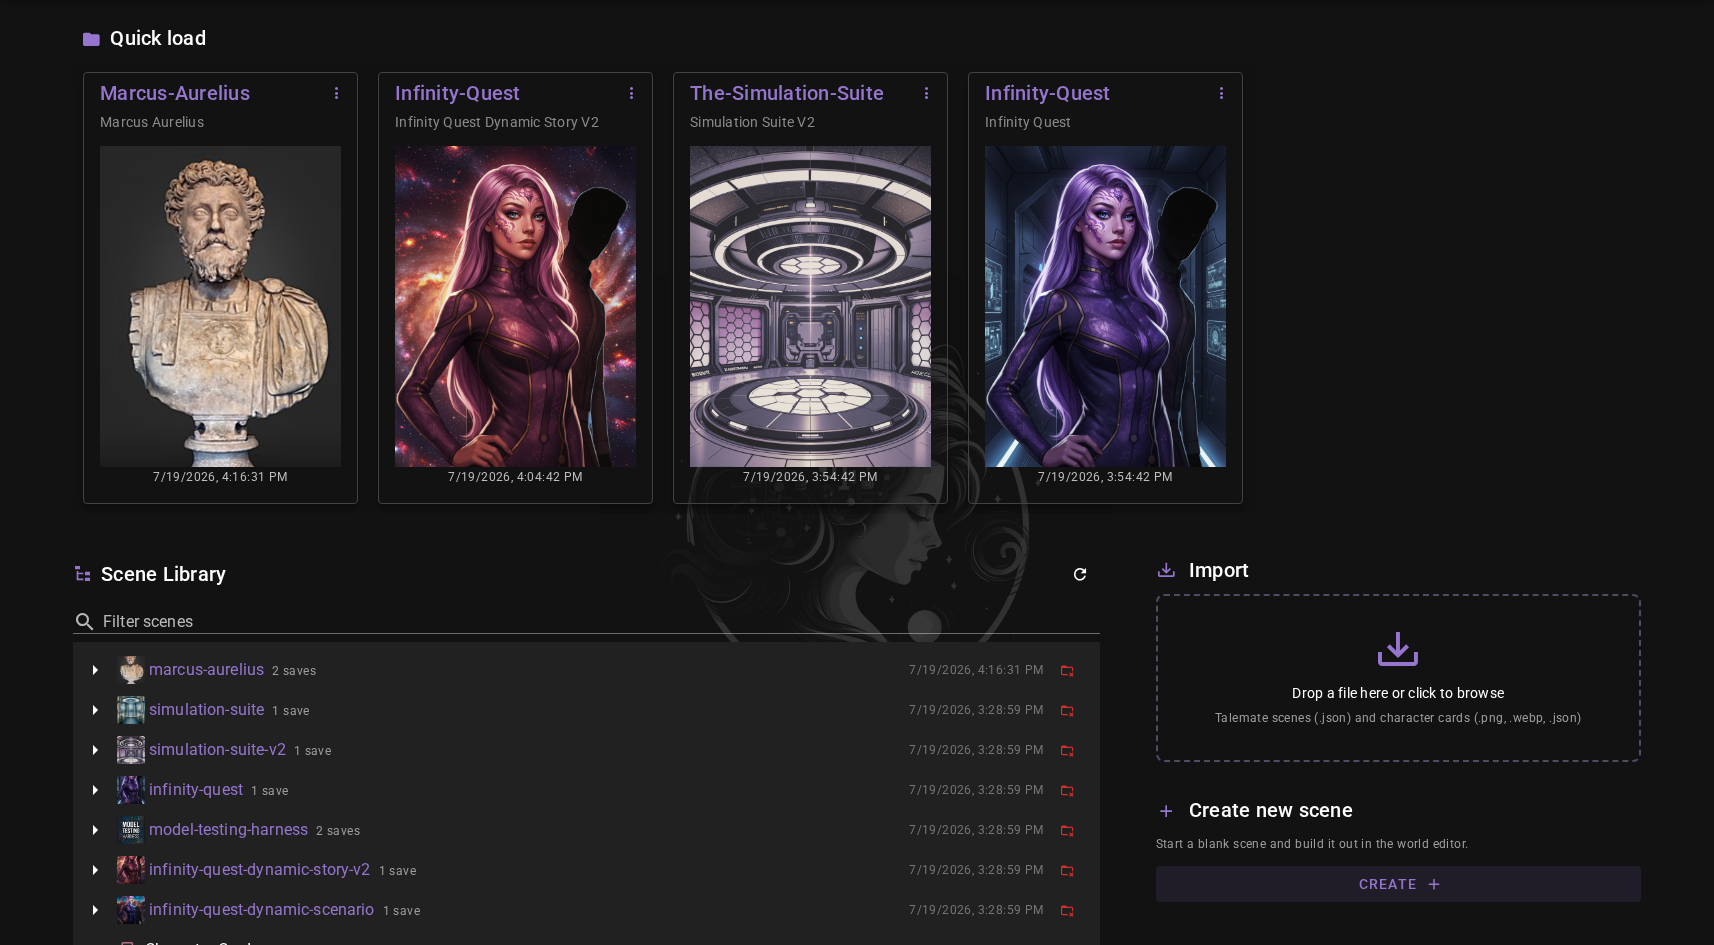
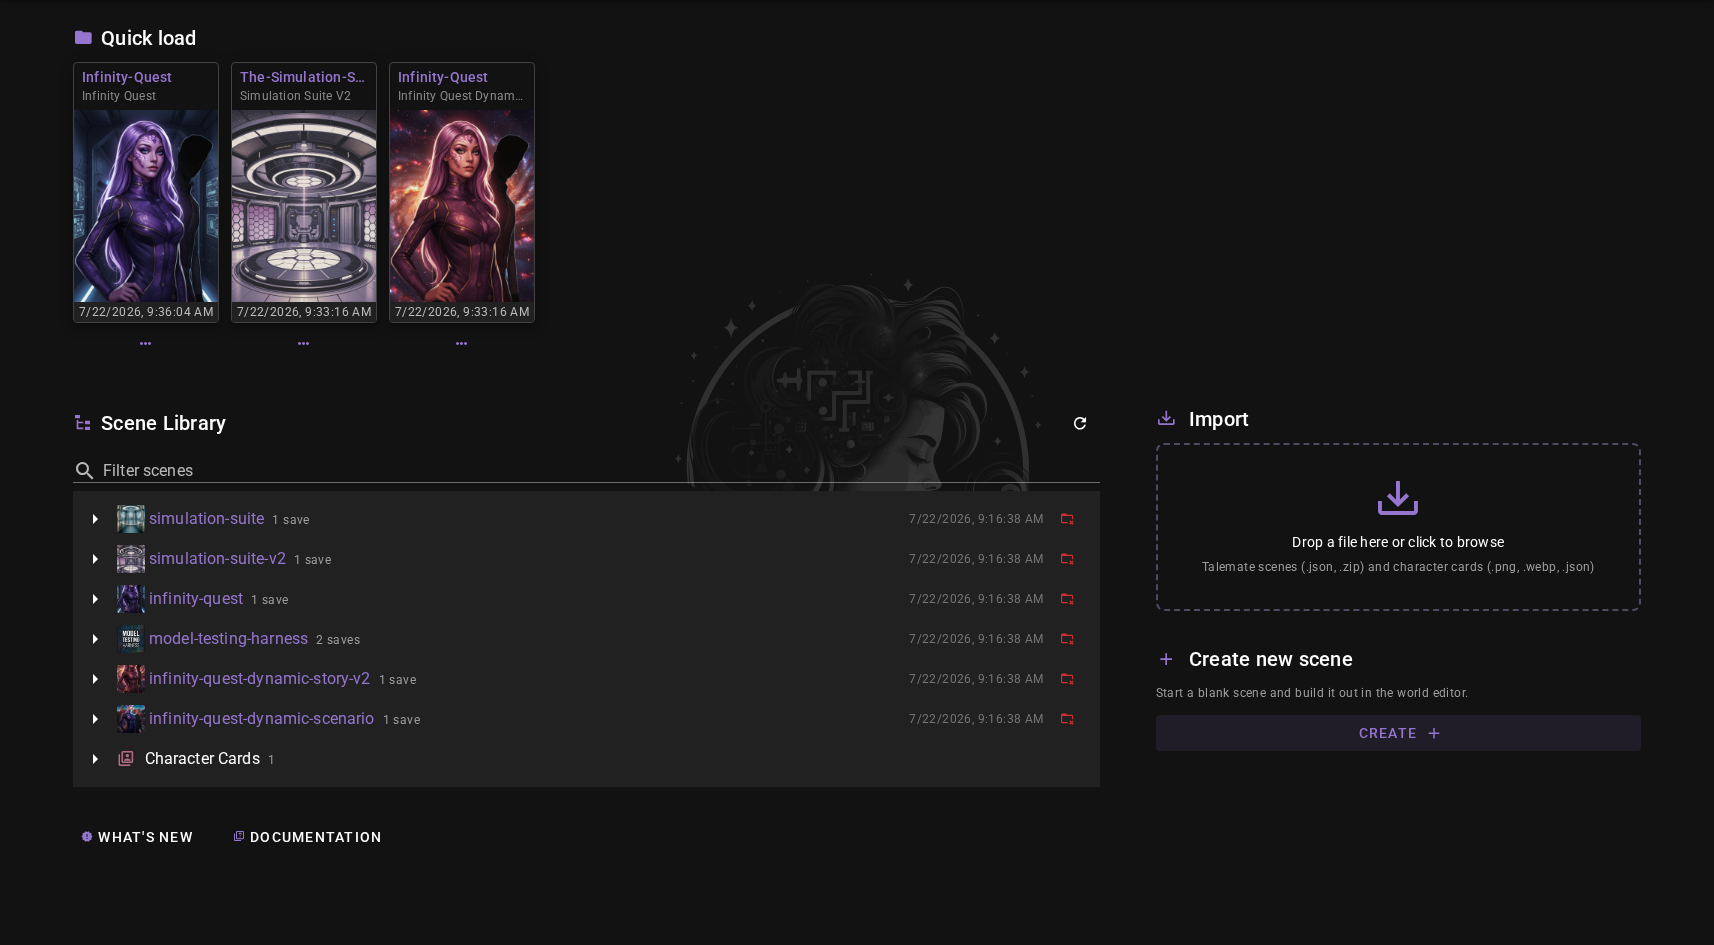
Scene library and quick load tweaks (#136) (#137)
* ui: move quick-load card menu below the card and add save-file context menu to scene library (#136)

* ui: horizontal dots for quick-load card menu, tighter card title spacing (#136)

* refactor: extract shared SceneSaveContextMenu, add connected guard to library menu (#136 review)

* ui: align Quick load section header with Scene Library header (#136)

* docs: sync scene-browser and restoring-scenes docs with save-row context menu, refresh screenshots (#136 review)

diff --git a/talemate_frontend/src/components/IntroRecentScenes.vue b/talemate_frontend/src/components/IntroRecentScenes.vue
@@ -1,7 +1,7 @@
 <template>
     <v-card variant="text" v-if="hasRecentScenes()">
-        <v-card-title class="ml-2">
-            <v-icon size="x-small" class="mr-1" color="primary">mdi-folder</v-icon>
+        <v-card-title class="d-flex align-center">
+            <v-icon size="x-small" class="mr-2" color="primary">mdi-folder</v-icon>
             Quick load
         </v-card-title>
         <!-- 
@@ -21,33 +21,6 @@
                     <v-card :disabled="!sceneLoadingAvailable || sceneIsLoading" density="compact" elevation="7"  @click="loadScene(scene)" color="grey-darken-3" variant="outlined">
                         <v-card-title class="text-primary">
                             {{ filenameToTitle(scene.filename) }}
-
-                            <v-menu>
-                                <template v-slot:activator="{ props }">
-                                    <v-btn 
-                                    class="btn-menu"
-                                    v-bind="props"
-                                    color="primary" 
-                                    icon 
-                                    variant="text"
-                                    size="small"><v-icon>mdi-dots-vertical</v-icon></v-btn>
-                                </template>
-                                <v-list density="compact">
-                                    <v-list-item prepend-icon="mdi-history" @click="openTimeline(scene)">
-                                        <v-list-item-title>Timeline</v-list-item-title>
-                                    </v-list-item>
-                                    <v-divider></v-divider>
-                                    <v-list-subheader>Remove</v-list-subheader>
-                                    <v-list-item prepend-icon="mdi-table-large-remove" @click="removeFromRecentScenes(scene)">
-                                        <v-list-item-title>Remove from Quick Load</v-list-item-title>
-                                    </v-list-item>
-                                    <v-list-item prepend-icon="mdi-file-remove-outline" @click="deleteScene(scene)">
-                                        <v-list-item-title>Delete</v-list-item-title>
-                                    </v-list-item>
-                                </v-list>
-                            </v-menu>
-
-
                         </v-card-title>
                         <v-card-subtitle class="text-grey-lighten-1">
                             {{ scene.name }}
@@ -59,6 +32,15 @@
                             <p class="text-caption text-center text-grey-lighten-1 bg-grey-darken-4">{{ prettyDate(scene.date) }}</p>
                         </v-card-text>
                     </v-card>
+                    <div class="text-center">
+                        <SceneSaveContextMenu
+                            :scene-path="scene.path"
+                            :scene-name="scene.name"
+                            :disabled="sceneIsLoading || !connected"
+                            icon="mdi-dots-horizontal"
+                            @delete="deleteScene(scene)"
+                        />
+                    </div>
                 </div>
             </div>
         </v-card-text>
@@ -75,18 +57,21 @@
 <script>
 
 import ConfirmActionPrompt from './ConfirmActionPrompt.vue';
+import SceneSaveContextMenu from './SceneSaveContextMenu.vue';
 
 export default {
     name: 'IntroRecentScenes',
     components: {
         ConfirmActionPrompt,
+        SceneSaveContextMenu,
     },
     props: {
+        connected: Boolean,
         sceneIsLoading: Boolean,
         sceneLoadingAvailable: Boolean,
         config: Object,
     },
-    inject: ['requestAssets', 'getWebsocket', 'registerMessageHandler', 'openSceneTimeline'],
+    inject: ['requestAssets', 'getWebsocket', 'registerMessageHandler'],
     data() {
         return {
             coverImages: {},
@@ -180,21 +165,6 @@ export default {
             }
         },
 
-        removeFromRecentScenes(scene) {
-            this.getWebsocket().send(JSON.stringify({
-                type: 'config',
-                action: 'remove_scene_from_recents',
-                path: scene.path,
-            }));
-        },
-
-        openTimeline(scene) {
-            this.openSceneTimeline({
-                scenePath: scene.path,
-                sceneName: scene.name,
-            });
-        },
-
         handleMessage(data) {
             if(data.type === 'assets') {
                 for(let id in data.assets) {
@@ -260,11 +230,13 @@ export default {
 
 .tile :deep(.v-card-title) {
     font-size: 0.9rem;
-    padding-right: 40px;
+    line-height: 1.3;
+    padding: 6px 8px 0 8px;
 }
 
 .tile :deep(.v-card-subtitle) {
     font-size: 0.75rem;
+    padding: 0 8px 2px 8px;
 }
 
 .tile :deep(.v-card-text) {
@@ -276,12 +248,6 @@ export default {
 
 .v-card:disabled {
     opacity: 0.5;
-}
-
-.btn-menu {
-    position: absolute;
-    top: 0px;
-    right: 0px;
 }
 
 </style>

diff --git a/talemate_frontend/src/components/SceneBrowser.vue b/talemate_frontend/src/components/SceneBrowser.vue
@@ -73,7 +73,16 @@
                 <template #append="{ item }">
                     <span v-if="item.modified" class="text-caption text-grey-darken-1 mr-2 d-none d-sm-inline">{{ prettyDate(item.modified) }}</span>
                     <span v-if="item.size !== undefined" class="text-caption text-grey-darken-1 mr-2 d-none d-md-inline">{{ prettySize(item.size) }}</span>
-                    <v-tooltip v-if="item.type === 'save' || item.type === 'card'" :text="item.type === 'save' ? 'Delete scene file' : 'Delete character card'" location="top">
+                    <SceneSaveContextMenu
+                        v-if="item.type === 'save'"
+                        :scene-path="item.path"
+                        :scene-name="item.subtitle || item.filename"
+                        :show-remove-from-quick-load="isRecentScene(item.path)"
+                        :disabled="!connected"
+                        size="x-small"
+                        @delete="confirmDeleteFile(item)"
+                    />
+                    <v-tooltip v-else-if="item.type === 'card'" text="Delete character card" location="top">
                         <template v-slot:activator="{ props }">
                             <v-btn v-bind="props" icon variant="text" size="x-small" color="delete" @click.stop="confirmDeleteFile(item)">
                                 <v-icon>mdi-file-remove-outline</v-icon>
@@ -137,6 +146,7 @@
 
 <script>
 import ConfirmActionPrompt from './ConfirmActionPrompt.vue';
+import SceneSaveContextMenu from './SceneSaveContextMenu.vue';
 
 const SAVE_DISPLAY_LIMIT = 10;
 const CHARACTER_CARDS_ID = '$CHARACTER_CARDS$';
@@ -145,11 +155,13 @@ export default {
     name: 'SceneBrowser',
     components: {
         ConfirmActionPrompt,
+        SceneSaveContextMenu,
     },
     props: {
         connected: Boolean,
         sceneLoadingAvailable: Boolean,
         visible: Boolean,
+        config: Object,
     },
     inject: ['getWebsocket', 'registerMessageHandler', 'isConnected'],
     emits: ['load-save', 'load-card'],
@@ -346,6 +358,11 @@ export default {
 
         confirmDeleteFile(item) {
             this.$refs.deleteFilePrompt.initiateAction({ path: item.path, filename: item.filename });
+        },
+
+        isRecentScene(path) {
+            const recents = this.config?.recent_scenes?.scenes || [];
+            return recents.some((scene) => scene.path === path);
         },
 
         deleteFile(path) {

diff --git a/talemate_frontend/src/components/SceneSaveContextMenu.vue b/talemate_frontend/src/components/SceneSaveContextMenu.vue
@@ -1,0 +1,67 @@
+<template>
+    <v-menu>
+        <template v-slot:activator="{ props }">
+            <v-btn
+            v-bind="props"
+            :disabled="disabled"
+            color="primary"
+            icon
+            variant="text"
+            :size="size"
+            @click.stop><v-icon>{{ icon }}</v-icon></v-btn>
+        </template>
+        <v-list density="compact">
+            <v-list-item prepend-icon="mdi-history" @click="openTimeline">
+                <v-list-item-title>Timeline</v-list-item-title>
+            </v-list-item>
+            <v-divider></v-divider>
+            <v-list-subheader>Remove</v-list-subheader>
+            <v-list-item v-if="showRemoveFromQuickLoad" prepend-icon="mdi-table-large-remove" @click="removeFromRecentScenes">
+                <v-list-item-title>Remove from Quick Load</v-list-item-title>
+            </v-list-item>
+            <v-list-item prepend-icon="mdi-file-remove-outline" @click="$emit('delete')">
+                <v-list-item-title>Delete</v-list-item-title>
+            </v-list-item>
+        </v-list>
+    </v-menu>
+</template>
+
+<script>
+export default {
+    name: 'SceneSaveContextMenu',
+    props: {
+        scenePath: String,
+        sceneName: String,
+        showRemoveFromQuickLoad: {
+            type: Boolean,
+            default: true,
+        },
+        disabled: Boolean,
+        icon: {
+            type: String,
+            default: 'mdi-dots-vertical',
+        },
+        size: {
+            type: String,
+            default: 'small',
+        },
+    },
+    inject: ['getWebsocket', 'openSceneTimeline'],
+    emits: ['delete'],
+    methods: {
+        openTimeline() {
+            this.openSceneTimeline({
+                scenePath: this.scenePath,
+                sceneName: this.sceneName,
+            });
+        },
+        removeFromRecentScenes() {
+            this.getWebsocket().send(JSON.stringify({
+                type: 'config',
+                action: 'remove_scene_from_recents',
+                path: this.scenePath,
+            }));
+        },
+    },
+}
+</script>

diff --git a/talemate_frontend/src/components/SceneLanding.vue b/talemate_frontend/src/components/SceneLanding.vue
@@ -8,6 +8,7 @@
         </v-alert>
 
         <IntroRecentScenes
+            :connected="connected"
             :config="config"
             :scene-is-loading="sceneIsLoading || loading"
             :scene-loading-available="sceneLoadingAvailable"
@@ -20,6 +21,7 @@
                     :connected="connected"
                     :scene-loading-available="sceneLoadingAvailable && !loading"
                     :visible="visible"
+                    :config="config"
                     @load-save="requestSceneLoad"
                     @load-card="loadFromPath"
                 />

diff --git a/docs/user-guide/scene-browser.md b/docs/user-guide/scene-browser.md
@@ -15,7 +15,7 @@ It is made up of four areas:
 
 The **Quick load** row shows your most recently saved scenes as cards. Click a card to load that scene.
 
-Each card has a three-dot menu (⋮) with additional actions:
+Each card has a three-dot menu (⋯) beneath it with additional actions:
 
 - :material-history: **Timeline** — browse and restore the scene's version history, see [Restoring Scenes](/talemate/user-guide/restoring-scenes)
 - **Remove from Quick Load** — remove the card without deleting any files
@@ -32,7 +32,7 @@ Expanding a project reveals:
 - An information row summarizing the project's contents — how many media assets and [node modules](/talemate/user-guide/node-editor/) it holds
 - The project's save files, each with its scene name, last-modified date, and file size
 
-Click a save file to load it.
+Click a save file to load it. Each save file row also has a three-dot menu (⋮) with the same actions as the quick-load cards — **Timeline**, **Remove from Quick Load** (only shown when the save is in Quick Load), and **Delete**.
 
 !!! tip "Filtering"
     The **Filter scenes** field narrows the tree to matching projects, save files, and character cards. Matching projects expand automatically so you can see the hits.
@@ -49,7 +49,8 @@ Clicking a card starts a [character card import](/talemate/user-guide/character-
 
 Each row in the library has a delete action:
 
-- :material-file-remove-outline: on a **save file** or **character card** deletes that single file after a confirmation prompt.
+- **Delete** in a **save file**'s three-dot menu (⋮) deletes that single file after a confirmation prompt.
+- :material-file-remove-outline: on a **character card** deletes that single file after a confirmation prompt.
 - :material-folder-remove-outline: on a **project** deletes the entire scene project — all of its save files, assets, node modules, and version history.
 
 !!! note

diff --git a/docs/user-guide/restoring-scenes.md b/docs/user-guide/restoring-scenes.md
@@ -13,11 +13,12 @@ Every time you save, Talemate records the changes as a delta in the scene's [cha
 
 ### Opening the timeline
 
-The timeline can be opened from three places:
+The timeline can be opened from four places:
 
 - **While playing a scene** — click the :material-content-save: **Save** button in the [Scene tools](/talemate/user-guide/scenario-tools) toolbar and select :material-history: **Timeline**
 - **From a message** — click the :material-source-fork: **Fork** button underneath any message; the timeline opens positioned at that message's revision
-- **From the main screen** — click the three-dot menu (⋮) on a scene card in the **Quick load** section and select :material-history: **Timeline**
+- **From the main screen** — click the three-dot menu (⋯) beneath a scene card in the **Quick load** section and select :material-history: **Timeline**
+- **From the Scene Library** — click the three-dot menu (⋮) on any save file row and select :material-history: **Timeline**
 
 ### Applying a revision
 
